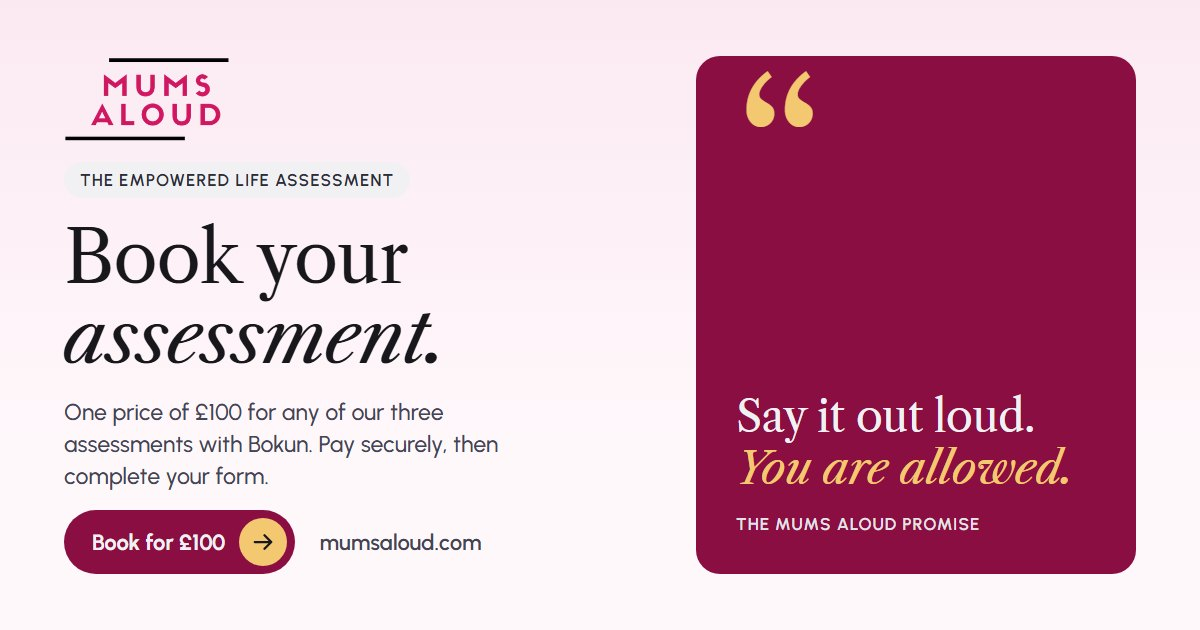
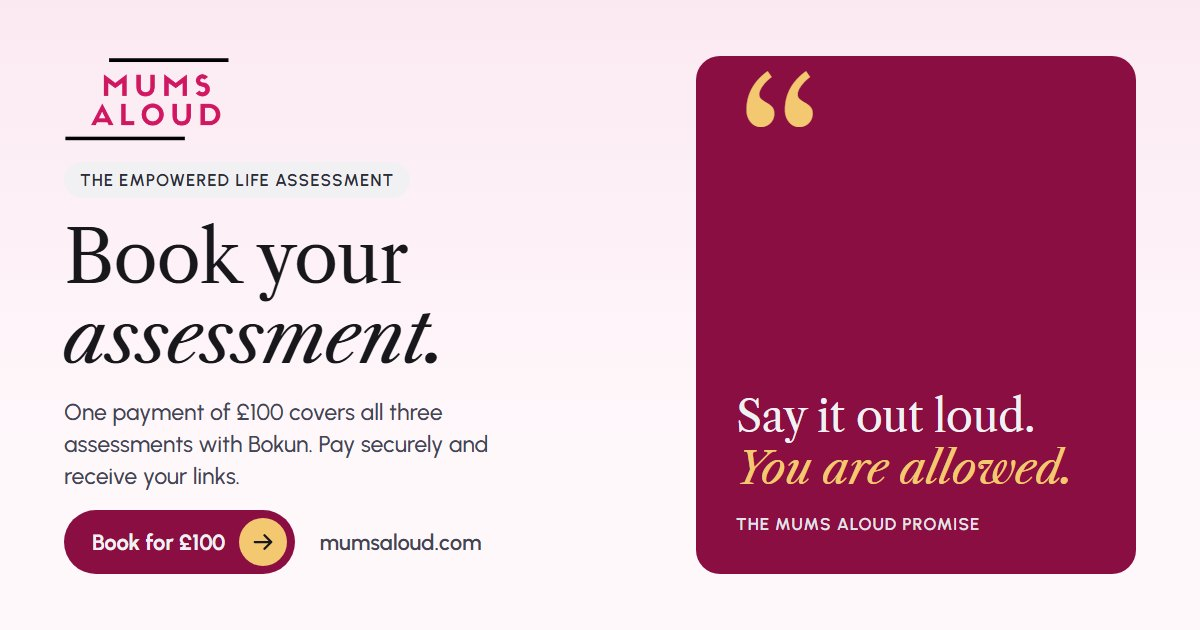
Assessments: forms off the site, terms tick box before paying
The three assessment forms are no longer linked anywhere on the site;
paid mums get their links after payment or by emailing proof of payment.
The Pay button now needs the terms box ticked, the terms gain an
Assessments with Bokun section, and the copy says one £100 payment
covers all three assessments.

Changed region(s): [[0.0617, 0.7238, 0.2158, 0.7841], [0.0925, 0.6333, 0.37, 0.6635], [0.37, 0.6937, 0.4317, 0.7238]]

diff --git a/src/app/assessment-checkout/page.tsx b/src/app/assessment-checkout/page.tsx
@@ -1,11 +1,12 @@
 import type { Metadata } from "next";
-import { ArrowUpRightIcon, CheckIcon, ClipboardTextIcon, LockSimpleIcon } from "@phosphor-icons/react/ssr";
+import Link from "next/link";
+import { ArrowUpRightIcon, CheckIcon, EnvelopeSimpleIcon, LockSimpleIcon } from "@phosphor-icons/react/ssr";
 import { JsonLd } from "@/components/content/JsonLd";
-import { IconChip, Section, SectionHeading, Tag } from "@/components/layout/Section";
+import { Section, SectionHeading, Tag } from "@/components/layout/Section";
 import { ClosingInvite } from "@/components/sections/ClosingInvite";
 import { PageHeader } from "@/components/sections/PageHeader";
-import { ButtonLink } from "@/components/ui/Button";
-import { assessmentOffer, assessments, CHECKOUT_PATH, checkout } from "@/content/assessments";
+import { Button, ButtonLink } from "@/components/ui/Button";
+import { ASSESSMENT_TERMS_PATH, assessmentOffer, assessments, CHECKOUT_PATH, checkout, proofOfPaymentEmail } from "@/content/assessments";
 import { serviceSchema } from "@/lib/schema";
 
 export const metadata: Metadata = {
@@ -15,13 +16,15 @@ export const metadata: Metadata = {
 };
 
 /**
- * Assessment checkout (owner, 9 Nov 2026): one £100 price for any of the three assessments. How it
- * works beside the booking card with the Stripe payment link, then the three forms for those who
- * have paid (`#start`, where Stripe's "after payment" redirect can point), then a free call for
- * the unsure. Stripe hosts the payment itself, so no card details touch this site.
+ * Assessment checkout (owner, 9 Nov 2026): one £100 payment covers all three assessments. How it
+ * works beside the booking card, whose Pay button only goes to Stripe once the terms box is ticked
+ * (a native `required` checkbox in a GET form, so it works without JavaScript). The assessment
+ * forms are never linked here: paid mums receive their links, and `#start` tells anyone still
+ * waiting to email us their proof of payment. Stripe hosts the payment, so no card details touch
+ * this site.
  */
 export default function AssessmentCheckoutPage() {
-  const { order, steps, start, closing } = checkout;
+  const { order, steps, proof, closing } = checkout;
   const { price, stripeUrl, calendly } = assessmentOffer;
   return (
     <main id="main">
@@ -55,18 +58,37 @@ export default function AssessmentCheckoutPage() {
               <p className="font-heading text-h2 text-ink">{price.label}</p>
             </div>
             <p className="mt-2 text-text-secondary">{order.note}</p>
-            <ul className="mt-6 flex flex-col gap-2 border-t border-border-decoration pt-6">
-              {order.includes.map((point) => (
-                <li key={point} className="flex items-start gap-3">
-                  <CheckIcon aria-hidden size={20} weight="bold" className="mt-1 shrink-0 text-action" />
-                  {point}
-                </li>
-              ))}
-            </ul>
-            <ButtonLink href={stripeUrl} size="large" arrow className="mt-8 w-full justify-between pl-6">
-              {order.pay}
-              <span className="sr-only">(opens Stripe&apos;s secure payment page)</span>
-            </ButtonLink>
+            <div className="mt-6 border-t border-border-decoration pt-6">
+              <p className="font-bold text-ink">{order.includesLabel}</p>
+              <ul className="mt-3 flex flex-col gap-2">
+                {assessments.map((item) => (
+                  <li key={item.id} className="flex items-start gap-3">
+                    <CheckIcon aria-hidden size={20} weight="bold" className="mt-1 shrink-0 text-action" />
+                    {item.label}
+                  </li>
+                ))}
+              </ul>
+            </div>
+            <form action={stripeUrl} method="get" className="mt-8">
+              <label className="flex min-h-12 cursor-pointer items-start gap-3">
+                <input type="checkbox" required aria-describedby="terms-hint" className="mt-0.5 size-5 shrink-0 cursor-pointer accent-action" />
+                <span>
+                  {order.terms.before}
+                  <Link href={ASSESSMENT_TERMS_PATH} target="_blank" rel="noopener" className="font-semibold">
+                    {order.terms.link}
+                    <span className="sr-only"> (opens in a new tab)</span>
+                  </Link>
+                  {order.terms.after}
+                </span>
+              </label>
+              <p id="terms-hint" className="mt-1 text-caption text-text-secondary">
+                {order.termsHint}
+              </p>
+              <Button type="submit" size="large" arrow className="mt-6 w-full justify-between pl-6">
+                {order.pay}
+                <span className="sr-only">(opens Stripe&apos;s secure payment page)</span>
+              </Button>
+            </form>
             <p className="mt-4 flex items-start gap-2 text-caption text-text-secondary">
               <LockSimpleIcon aria-hidden size={16} weight="bold" className="mt-0.5 shrink-0" />
               {order.secure}
@@ -80,23 +102,18 @@ export default function AssessmentCheckoutPage() {
         </div>
       </PageHeader>
 
-      <Section id="start" aria-labelledby="start-heading" className="scroll-mt-24">
-        <SectionHeading id="start-heading" tag={start.tag} heading={start.heading} intro={start.intro} />
-        <ul data-reveal="stagger" className="mt-12 grid gap-4 md:grid-cols-3 lg:gap-6">
-          {assessments.map((item) => (
-            <li key={item.id} className="group relative flex flex-col rounded-card border border-border-decoration bg-surface-card p-6">
-              <IconChip>
-                <ClipboardTextIcon aria-hidden size={24} />
-              </IconChip>
-              <h3 className="mt-4 font-body text-title font-semibold text-ink">{item.label}</h3>
-              <a href={item.href} className="mt-auto inline-flex min-h-12 items-center gap-2 pt-4 font-semibold after:absolute after:inset-0">
-                Start this assessment
-                <ArrowUpRightIcon aria-hidden size={16} weight="bold" />
-                <span className="sr-only">: {item.label} (opens a Google Form)</span>
-              </a>
-            </li>
-          ))}
-        </ul>
+      <Section id="start" aria-labelledby="proof-heading" className="scroll-mt-24">
+        <SectionHeading
+          id="proof-heading"
+          tag={proof.tag}
+          heading={proof.heading}
+          intro={proof.intro}
+          action={
+            <ButtonLink href={proofOfPaymentEmail} variant="secondary" size="large" icon={<EnvelopeSimpleIcon aria-hidden size={20} />}>
+              {proof.action}
+            </ButtonLink>
+          }
+        />
       </Section>
 
       <ClosingInvite id="checkout-closing" heading={closing.heading} body={closing.body} primary={closing.primary} secondary={closing.secondary} />

diff --git a/src/content/assessments.ts b/src/content/assessments.ts
@@ -1,12 +1,19 @@
 /**
- * The Empowered Life Assessment (TELA): one price, one Stripe payment link, three assessment forms
- * (owner, 9 Nov 2026). Shared by the Work With Bokun card and the checkout page, so the price and
- * the links live in one place. The Stripe page (checked 9 Nov 2026) reads "TELA Assessment,
- * £100.00", paid to Mumsaloud Initiative CIC. Items marked `confirm` are drafted.
+ * The Empowered Life Assessment (TELA): one £100 payment through one Stripe payment link covers
+ * all three assessments (owner, 9 Nov 2026). Shared by the Work With Bokun card, the checkout page
+ * and the terms. The Stripe page (checked 9 Nov 2026) reads "TELA Assessment, £100.00", paid to
+ * Mumsaloud Initiative CIC.
+ *
+ * The assessment forms are never linked from this site (owner, 9 Nov 2026): paid mums receive their
+ * links after payment, or by emailing us with proof of payment. Items marked `confirm` are drafted.
  */
 import type { AccentText } from "@/components/ui/Heading";
+import { mailtoHref } from "@/lib/inbox";
+import { siteConfig } from "@/lib/site";
 
 export const CHECKOUT_PATH = "/assessment-checkout/";
+/** The assessment section of the terms page (PolicyArticle builds its ids from the section titles). */
+export const ASSESSMENT_TERMS_PATH = "/terms-and-conditions/#terms-assessments-with-bokun";
 
 export const assessmentOffer = {
   name: "The Empowered Life Assessment",
@@ -18,47 +25,66 @@ export const assessmentOffer = {
   calendly: "https://calendly.com/bokunimoukhuede/30min",
 };
 
-/** The three assessments, one Google Form each (the live site's forms). The price covers any one. */
-export const assessments: readonly { id: string; label: string; href: string }[] = [
-  { id: "married", label: "For married individuals", href: "https://forms.gle/fVDtjGSJ3vRMmVeFA" },
+/** The three assessments, all covered by the one payment. */
+export const assessments: readonly { id: string; label: string }[] = [
+  { id: "married", label: "For married individuals" },
   // Owner, 9 Nov 2026: was "For recently single individuals".
-  { id: "marital-rediscovery", label: "Marital Rediscovery Assessment", href: "https://forms.gle/fnX1AvUgFSKSMCHg8" },
-  { id: "single", label: "For single individuals", href: "https://forms.gle/zKQ18pUsgUev5Lof6" },
+  { id: "marital-rediscovery", label: "Marital Rediscovery Assessment" },
+  { id: "single", label: "For single individuals" },
 ];
+
+/** A ready-made email for a mum who has paid but has no links yet. */
+export const proofOfPaymentEmail = mailtoHref(
+  "Assessment payment: please send my links",
+  [
+    "Hello Mums Aloud,",
+    "",
+    "I have paid £100 for The Empowered Life Assessment. Please send me the links to my assessments.",
+    "",
+    "Name:",
+    "Email address I paid with:",
+    "Date of payment:",
+    "",
+    "I have attached my Stripe receipt (or a screenshot of the payment).",
+  ].join("\n"),
+);
 
 export const checkout = {
   title: "Book your assessment",
-  description: "Book The Empowered Life Assessment with Bokun: one payment of £100 covers any one of our three assessments. Pay securely with Stripe, then complete your form.",
+  description: "Book The Empowered Life Assessment with Bokun: one payment of £100 covers all three assessments. Pay securely with Stripe and receive your assessment links.",
   tag: "The Empowered Life Assessment",
   heading: { lead: "Book your", accent: "assessment." } satisfies AccentText,
-  intro: "One price for every assessment. Pay securely, then complete the form for the assessment that fits where you are.",
+  intro: "One payment of £100 covers all three assessments. Pay securely, then use the links we send you to complete them in your own time.",
   order: {
     tag: "Your booking",
     title: "TELA Assessment",
-    note: "One payment. Covers any one of the three assessments.",
-    includes: ["A personalised postpartum and family assessment", "Practical insight, not just a checklist", "A clear next step, whatever you decide to do with it"],
+    note: "One payment. Covers all three assessments.",
+    includesLabel: "Included",
     pay: "Pay £100 securely",
+    terms: { before: "I have read and agree to the ", link: "terms for assessments", after: "." },
+    termsHint: "Please tick the box to agree to the terms before you pay.",
     secure: "Payment is handled by Stripe, so we never see your card details. The payment page shows our registered name, Mumsaloud Initiative CIC.",
     unsure: "Not sure yet? Book a free call first",
   },
   steps: {
     heading: "How it works",
     items: [
-      { title: "Pay once", text: "Pay £100 on Stripe's secure payment page." },
-      { title: "Complete your assessment", text: "Come back here and open the form for your assessment. Answer in your own time." },
-      // confirm: what happens after the form is sent, and how soon.
+      { title: "Agree and pay", text: "Tick to agree to the terms, then pay £100 once on Stripe's secure payment page." },
+      { title: "Get your assessment links", text: "After you pay, you receive the links to your three assessments. They are for you only." },
+      // confirm: what happens after the forms are sent, and how soon.
       { title: "Hear from Bokun", text: "Bokun reads your answers and comes back to you with your next step." },
     ],
   },
-  start: {
+  proof: {
     tag: "Already paid?",
-    heading: { lead: "Start your", accent: "assessment." } satisfies AccentText,
-    intro: "Open the form that fits where you are. Use the same email address you paid with, so we can match your answers to your payment.",
+    heading: { lead: "No link yet?", accent: "Email us." } satisfies AccentText,
+    intro: `Email ${siteConfig.email} with your Stripe receipt or a screenshot of your payment, and we will send you the links to your assessments.`,
+    action: "Email us your proof of payment",
   },
   closing: {
-    heading: { lead: "Not sure which one", accent: "fits?" } satisfies AccentText,
+    heading: { lead: "Not sure it is", accent: "right for you?" } satisfies AccentText,
     body: "A free conversation with Bokun is a good place to start. There is no obligation to book anything.",
-    primary: { label: "Book a free call", href: "https://calendly.com/bokunimoukhuede/30min", external: true },
+    primary: { label: "Book a free call", href: "https://calendly.com/bokunimoukhuede/30min" },
     secondary: { label: "See all of Bokun's services", href: "/work-with-us/" },
   },
 };

diff --git a/src/content/assessments.test.ts b/src/content/assessments.test.ts
@@ -1,18 +1,46 @@
+import { readdirSync, readFileSync, statSync } from "node:fs";
+import { join } from "node:path";
 import { describe, expect, it } from "vitest";
-import { assessmentOffer, assessments, CHECKOUT_PATH, checkout } from "./assessments";
+import { ASSESSMENT_TERMS_PATH, assessmentOffer, assessments, CHECKOUT_PATH, checkout, proofOfPaymentEmail } from "./assessments";
+import { termsPage } from "./policies";
+import * as workWithUs from "./work-with-us";
+import { siteConfig } from "@/lib/site";
 import { STATIC_ROUTES } from "@/lib/sitemap";
 
+/** Every source file under src/, so a form link cannot slip back onto any page. */
+function sourceFiles(dir: string): string[] {
+  return readdirSync(dir).flatMap((name) => {
+    const path = join(dir, name);
+    return statSync(path).isDirectory() ? sourceFiles(path) : /\.(ts|tsx|json)$/.test(name) ? [path] : [];
+  });
+}
+
 describe("assessment checkout", () => {
-  it("charges one £100 price through the owner's Stripe payment link", () => {
+  it("charges one £100 payment for all three assessments through the owner's Stripe link", () => {
     expect(assessmentOffer.price).toEqual({ amount: 100, label: "£100", currency: "GBP" });
     expect(assessmentOffer.stripeUrl).toBe("https://buy.stripe.com/fZe6qv3UgacPcFy5km");
     expect(checkout.order.pay).toContain(assessmentOffer.price.label);
+    expect(checkout.order.note).toMatch(/all three/);
+    expect(JSON.stringify({ checkout, workWithUs })).not.toMatch(/per assessment|any one of/i);
   });
 
-  it("offers the three assessments, with the renamed Marital Rediscovery Assessment", () => {
+  it("names the three assessments, with the renamed Marital Rediscovery Assessment", () => {
     expect(assessments.map((item) => item.label)).toEqual(["For married individuals", "Marital Rediscovery Assessment", "For single individuals"]);
-    expect(assessments.every((item) => item.href.startsWith("https://forms.gle/"))).toBe(true);
     expect(JSON.stringify({ assessments, checkout })).not.toMatch(/recently single/i);
+  });
+
+  it("never links the assessment forms from the site (owner, 9 Nov 2026)", () => {
+    const offenders = sourceFiles(join(process.cwd(), "src")).filter((file) => /forms\.gle\/(fVDtjGSJ3vRMmVeFA|fnX1AvUgFSKSMCHg8|zKQ18pUsgUev5Lof6)/.test(readFileSync(file, "utf8")));
+    expect(offenders).toEqual([]);
+  });
+
+  it("points the tick box at the assessment terms, and offers an email with proof of payment", () => {
+    const [path, hash] = ASSESSMENT_TERMS_PATH.split("#");
+    expect(path).toBe("/terms-and-conditions/");
+    const section = termsPage.sections.find((item) => `terms-${item.title.replace(/\W+/g, "-").replace(/^-|-$/g, "").toLowerCase()}` === hash);
+    expect(section?.paragraphs.join(" ")).toMatch(/£100/);
+    expect(section?.paragraphs.join(" ")).toMatch(/all three/);
+    expect(proofOfPaymentEmail.startsWith(`mailto:${siteConfig.email}?subject=`)).toBe(true);
   });
 
   it("is a listed page with no dashes in its copy", () => {

diff --git a/src/content/policies.ts b/src/content/policies.ts
@@ -176,6 +176,17 @@ export const termsPage: PolicyPage = {
       ],
     },
     {
+      // Owner, 9 Nov 2026: the checkout's tick box links here (ASSESSMENT_TERMS_PATH in content/assessments.ts).
+      // Not legal advice. confirm: the cancellation wording.
+      title: "Assessments with Bokun",
+      paragraphs: [
+        "The Empowered Life Assessment costs £100, paid once on Stripe's secure payment page. One payment covers all three assessments: the assessment for married individuals, the Marital Rediscovery Assessment, and the assessment for single individuals.",
+        `After you pay, you receive the links to your assessments. The links are for you only, so please do not share them. If you have paid but have not received them, email us at ${siteConfig.email} with your Stripe receipt or proof of payment and we will send them.`,
+        "The assessments are a coaching and self-reflection tool. They are not medical, psychological or legal advice, a diagnosis, or a replacement for professional care. If you are struggling, our Find Support page lists people who can help now.",
+        "You can cancel within 14 days of paying. If you have not started any of your assessments, we will refund you in full. If you start an assessment within those 14 days, you agree that we begin straight away, and if you then cancel we may keep a fair amount for the work already done.",
+      ],
+    },
+    {
       title: "Links to other services",
       paragraphs: [
         "The site links to other websites and services, including Spotify, Calendly, Google Forms, WhatsApp, Instagram, Facebook and the organisations on our Find Support page. We link to them because we think they may help, but we do not control them and are not responsible for their content, availability or how they use your information.",

diff --git a/src/content/work-with-us.ts b/src/content/work-with-us.ts
@@ -74,10 +74,10 @@ const items: readonly BokunService[] = [
     id: "assessments",
     icon: "assessment",
     title: "Assessments",
-    strap: `${assessmentOffer.price.label} per assessment`,
+    strap: `${assessmentOffer.price.label} for all three assessments`,
     summary: "Get clarity on where you are, and what support genuinely fits your stage of motherhood.",
     points: ["Personalised postpartum and family assessments", "Practical insight, not just a checklist", "A clear next step, whatever you decide to do with it"],
-    optionsLabel: "Choose from three assessments",
+    optionsLabel: "Three assessments, one payment",
     options: assessments.map((item) => item.label),
     action: { label: "Book an assessment", href: CHECKOUT_PATH, primary: true },
     secondary: { label: "Talk it through first", href: calendly, external: true },

diff --git a/src/content/core-areas.test.ts b/src/content/core-areas.test.ts
@@ -22,7 +22,7 @@ describe("core area pages", () => {
     const assessments = workWithUs.services.items.find((item) => item.id === "assessments");
     // Paid since 9 Nov 2026: the card names the three assessments and leads to the checkout, never straight to a form.
     expect(assessments?.action.href).toBe("/assessment-checkout/");
-    expect(assessments?.strap).toBe("£100 per assessment");
+    expect(assessments?.strap).toBe("£100 for all three assessments");
     expect(assessments?.options).toEqual(["For married individuals", "Marital Rediscovery Assessment", "For single individuals"]);
     expect(JSON.stringify(workWithUs)).not.toMatch(/forms\.gle|recently single/i);
     expect(JSON.stringify(workWithUs)).not.toMatch(/[–—]/);
